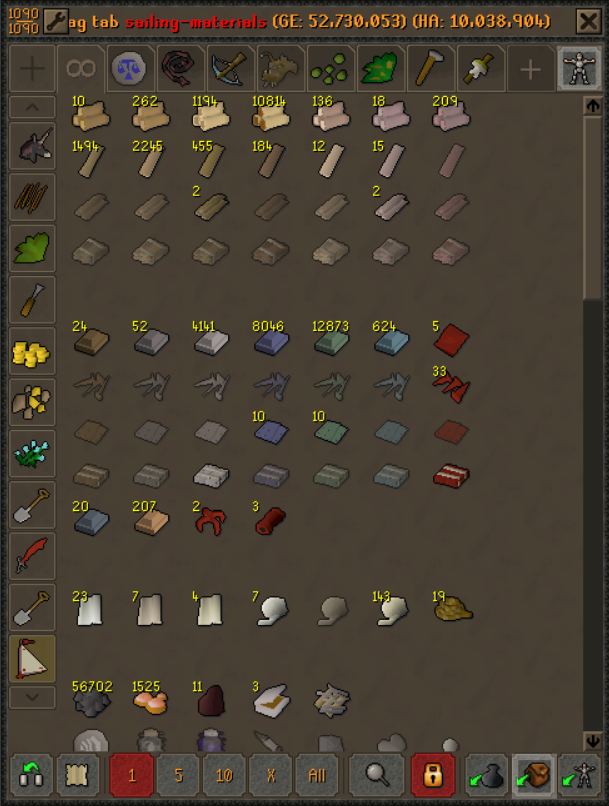
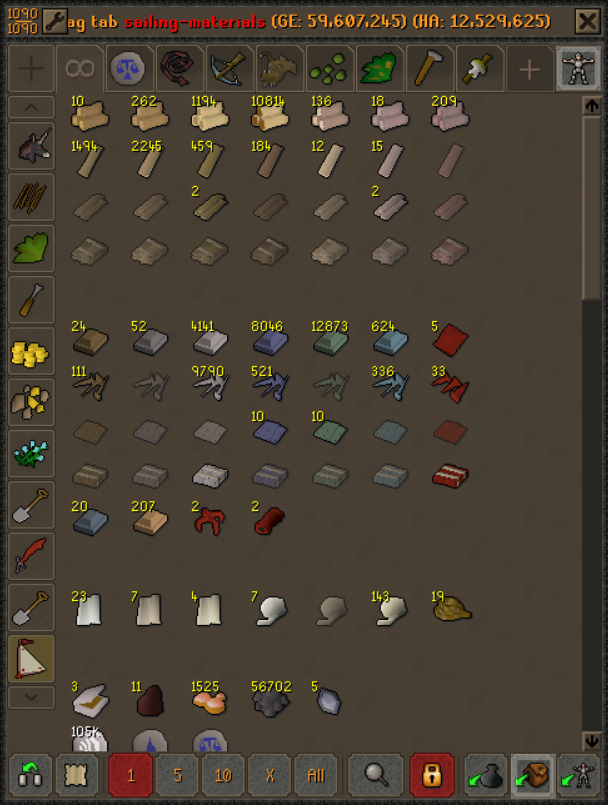
feat: add ballistic attractor and bosun's workbench facilities
- add both facilities to the upgrade catalog for skiffs and sloops
- add facility visibility configuration options
- detect installed ballistic attractors and bosun's workbenches
- add schematic unlock tracking for both facilities
- include facility requirements in lists, catalog, overlays, and bank views
- add facility image resources and Wiki integration

feat: add water and law rune material support

- register water and law runes for ownership tracking
- include the new runes in material aggregation and bank filtering
- expand the permanent Sailing materials tag to 89 materials
- reorganize specialty materials in the permanent bank layout
- update the documented supported-material count

fix: use the correct Magic stone item ID

- map Magic stone to item ID 8788
- correct ownership checks and bank filtering for the material
- align the registry with exported Sailing bank-tag layouts

- update README and screenshots

diff --git a/src/main/java/com/boatupgrades/MaterialItemRegistry.java b/src/main/java/com/boatupgrades/MaterialItemRegistry.java
@@ -36,6 +36,7 @@ final class MaterialItemRegistry
 		ids.put("Iron keel parts", ItemID.IRON_KEEL_PARTS); ids.put("Iron nails", ItemID.IRON_NAILS);
 		ids.put("Ironwood hull parts", ItemID.IRONWOOD_HULL_PARTS); ids.put("Ironwood logs", ItemID.IRONWOOD_LOGS);
 		ids.put("Ironwood plank", ItemID.IRONWOOD_PLANK); ids.put("Knife", ItemID.KNIFE);
+		ids.put("Law rune", ItemID.LAW_RUNE);
 		ids.put("Large adamant keel parts", ItemID.LARGE_ADAMANT_KEEL_PARTS); ids.put("Large bronze keel parts", ItemID.LARGE_BRONZE_KEEL_PARTS);
 		ids.put("Large camphor hull parts", ItemID.LARGE_CAMPHOR_HULL_PARTS); ids.put("Large dragon keel parts", ItemID.LARGE_DRAGON_KEEL_PARTS);
 		ids.put("Large iron keel parts", ItemID.LARGE_IRON_KEEL_PARTS); ids.put("Large ironwood hull parts", ItemID.LARGE_IRONWOOD_HULL_PARTS);
@@ -44,7 +45,7 @@ final class MaterialItemRegistry
 		ids.put("Large rune keel parts", ItemID.LARGE_RUNE_KEEL_PARTS); ids.put("Large steel keel parts", ItemID.LARGE_STEEL_KEEL_PARTS);
 		ids.put("Large teak hull parts", ItemID.LARGE_TEAK_HULL_PARTS); ids.put("Large wooden hull parts", ItemID.LARGE_WOODEN_HULL_PARTS);
 		ids.put("Lead bar", ItemID.LEAD_BAR); ids.put("Linen yarn", ItemID.LINEN_YARN); ids.put("Logs", ItemID.LOGS);
-		ids.put("Magic stone", ItemID.MAGIC_STONE); ids.put("Mahogany hull parts", ItemID.MAHOGANY_HULL_PARTS);
+		ids.put("Magic stone", ItemID.MAGIC_STONE_8788); ids.put("Mahogany hull parts", ItemID.MAHOGANY_HULL_PARTS);
 		ids.put("Mahogany logs", ItemID.MAHOGANY_LOGS); ids.put("Mahogany plank", ItemID.MAHOGANY_PLANK);
 		ids.put("Mithril bar", ItemID.MITHRIL_BAR); ids.put("Mithril keel parts", ItemID.MITHRIL_KEEL_PARTS);
 		ids.put("Mithril nails", ItemID.MITHRIL_NAILS); ids.put("Molten glass", ItemID.MOLTEN_GLASS);
@@ -60,6 +61,7 @@ final class MaterialItemRegistry
 		ids.put("Te salt", ItemID.TE_SALT); ids.put("Teak hull parts", ItemID.TEAK_HULL_PARTS);
 		ids.put("Teak logs", ItemID.TEAK_LOGS); ids.put("Teak plank", ItemID.TEAK_PLANK);
 		ids.put("Tinderbox", ItemID.TINDERBOX); ids.put("Urt salt", ItemID.URT_SALT);
+		ids.put("Water rune", ItemID.WATER_RUNE);
 		ids.put("Wooden hull parts", ItemID.WOODEN_HULL_PARTS);
 		ITEM_IDS = Collections.unmodifiableMap(ids);
 	}

diff --git a/src/main/java/com/boatupgrades/SailingMaterialsBankTagService.java b/src/main/java/com/boatupgrades/SailingMaterialsBankTagService.java
@@ -37,7 +37,7 @@ public class SailingMaterialsBankTagService
 	private static final String BASE_TAG = "sailing-materials";
 	private static final int TAB_ICON_ITEM_ID = ItemID.ROSEWOOD_MAST_AND_COTTON_SAILS;
 	private static final int ITEMS_PER_ROW = 8;
-	private static final int EXPECTED_MATERIAL_COUNT = 87;
+	private static final int EXPECTED_MATERIAL_COUNT = 89;
 
 	private static final String[][] LAYOUT_ROWS =
 	{
@@ -54,12 +54,13 @@ public class SailingMaterialsBankTagService
 		{},
 		{"Bolt of linen", "Bolt of canvas", "Bolt of cotton", "Linen yarn", "Hemp yarn", "Cotton yarn", "Rope"},
 		{},
-		{"Swamp tar", "Molten glass", "Charcoal", "Tinderbox", "Barrel stand"},
-		{"Air rune", "Captured wind mote", "Bottled storm", "Swift albatross feather", "Magic stone", "Heart of ithell", "Echo pearl"},
-		{"Fishing bait", "Knife", "Narwhal horn knife", "Ray barbs"},
+		{"Tinderbox", "Charcoal", "Molten glass", "Swamp tar", "Magic stone"},
+		{"Air rune", "Water rune", "Law rune"},
+		{"Bottled storm", "Echo pearl", "Swift albatross feather"},
+		{"Barrel stand", "Captured wind mote", "Heart of ithell"},
+		{"Knife", "Narwhal horn knife", "Fishing bait", "Ray barbs"},
 		{"Te salt", "Efh salt", "Urt salt", "Relicym's balm(4)"}
 	};
-
 	private final Client client;
 	private final ClientThread clientThread;
 	private final ConfigManager configManager;
@@ -178,6 +179,11 @@ public class SailingMaterialsBankTagService
 			for (int column = 0; column < LAYOUT_ROWS[row].length; column++)
 			{
 				String materialName = LAYOUT_ROWS[row][column];
+				if (materialName == null)
+				{
+					log.debug("[Sailing Tag] Preserved empty layout slot at row {}, column {}", row + 1, column + 1);
+					continue;
+				}
 				if (!layoutNames.add(materialName)) duplicateNames.add(materialName);
 				Integer itemId = MaterialItemRegistry.getItemId(materialName);
 				if (itemId == null) unmappedNames.add(materialName);

diff --git a/src/main/java/com/boatupgrades/FacilityService.java b/src/main/java/com/boatupgrades/FacilityService.java
@@ -53,7 +53,9 @@ public class FacilityService
                 "Inoculation Station",
                 "Salvaging Station",
                 "Crystal Extractor",
-                "Eternal Brazier"
+                "Eternal Brazier",
+                "Ballistic Attractor",
+                "Bosun's Workbench"
         );
         for (String f : facilities)
         {
@@ -161,6 +163,18 @@ public class FacilityService
 
             if (ETERNAL_BRAZIER.contains(id)) {
                 updateHighest("Eternal Brazier", 0);
+                return;
+            }
+
+            if (BALLISTIC_ATTRACTOR.contains(id)) {
+                updateHighest("Ballistic Attractor", 0);
+                log.debug("[Facilities] Detected installed Ballistic attractor object {}", id);
+                return;
+            }
+
+            if (BOSUNS_WORKBENCH.contains(id)) {
+                updateHighest("Bosun's Workbench", 0);
+                log.debug("[Facilities] Detected installed Bosun's workbench object {}", id);
             }
         }
         catch (Throwable t)
@@ -668,5 +682,17 @@ public class FacilityService
             ObjectID.SAILING_BOAT_SKIFF_ETERNAL_BRAZIER,
             ObjectID.SAILING_BOAT_SLOOP_ETERNAL_BRAZIER,
             ObjectID.SAILING_BOAT_ETERNAL_BRAZIER_UI
+    );
+    private static final Set<Integer> BALLISTIC_ATTRACTOR = Set.of(
+            ObjectID.SAILING_BALLISTIC_ATTRACTOR
+    );
+    private static final Set<Integer> BOSUNS_WORKBENCH = Set.of(
+            ObjectID.SAILING_BOSUNS_WORKBENCH_NORMAL,
+            ObjectID.SAILING_BOSUNS_WORKBENCH_OAK,
+            ObjectID.SAILING_BOSUNS_WORKBENCH_TEAK,
+            ObjectID.SAILING_BOSUNS_WORKBENCH_MAHOGANY,
+            ObjectID.SAILING_BOSUNS_WORKBENCH_CAMPHOR,
+            ObjectID.SAILING_BOSUNS_WORKBENCH_IRONWOOD,
+            ObjectID.SAILING_BOSUNS_WORKBENCH_ROSEWOOD
     );
 }

diff --git a/src/main/java/com/boatupgrades/UpgradeData.java b/src/main/java/com/boatupgrades/UpgradeData.java
@@ -1,7 +1,9 @@
 package com.boatupgrades;
 
 import java.util.*;
+import lombok.extern.slf4j.Slf4j;
 
+@Slf4j
 public final class UpgradeData
 {
     private UpgradeData() {}
@@ -59,7 +61,9 @@ public final class UpgradeData
             "Anchor",
             "Fathom Device",
             "Salvaging Station",
-            "Crystal Extractor"
+            "Crystal Extractor",
+            "Ballistic Attractor",
+            "Bosun's Workbench"
     );
 
     static
@@ -379,6 +383,11 @@ public final class UpgradeData
                 Arrays.asList(new Material("Ironwood plank",6), new Material("Cupronickel bar",5), new Material("Magic stone",2), new Material("Heart of ithell",1))));
         OPTIONS.add(new UpgradeOption("Eternal Brazier", -1, 0, 78, 72, "Eternal brazier",
                 Arrays.asList(new Material("Ironwood plank",4), new Material("Rune nails",16), new Material("Runite bar",6), new Material("Cupronickel bar",6), new Material("Te salt",250), new Material("Efh salt",250), new Material("Urt salt",250))));
+        OPTIONS.add(new UpgradeOption("Ballistic Attractor", -1, 0, 50, 44, "Ballistic attractor",
+                Arrays.asList(new Material("Mahogany plank",10), new Material("Water rune",5000), new Material("Law rune",1000), new Material("Lead bar",5), new Material("Steel bar",5))));
+        OPTIONS.add(new UpgradeOption("Bosun's Workbench", -1, 0, 63, 54, "Bosun's workbench",
+                Arrays.asList(new Material("Camphor plank",6), new Material("Adamantite nails",24), new Material("Lead bar",5))));
+        log.debug("[Catalog] Registered Ballistic attractor and Bosun's workbench facility upgrades");
     }
 
     public static List<UpgradeOption> getAllOptions()

diff --git a/src/main/java/com/boatupgrades/utils/SchematicUtils.java b/src/main/java/com/boatupgrades/utils/SchematicUtils.java
@@ -33,7 +33,9 @@ public class SchematicUtils
             new SchematicEntry("Eternal brazier schematic", "Eternal brazier", VarbitID.LOST_SCHEMATIC_ETERNAL_BRAZIER),
             new SchematicEntry("Dragon cannon schematic", "Dragon cannon", VarbitID.LOST_SCHEMATIC_DRAGON_CANNON),
             new SchematicEntry("Rosewood & cotton sails schematic", "Rosewood mast & cotton sails", VarbitID.LOST_SCHEMATIC_ROSEWOOD_SAIL),
-            new SchematicEntry("Dragon keel schematic", "Dragon keel", VarbitID.LOST_SCHEMATIC_DRAGON_KEEL)
+            new SchematicEntry("Dragon keel schematic", "Dragon keel", VarbitID.LOST_SCHEMATIC_DRAGON_KEEL),
+            new SchematicEntry("Ballistic attractor schematic", "Ballistic attractor", VarbitID.LOST_SCHEMATIC_BALLISTIC_ATTRACTOR),
+            new SchematicEntry("Bosun's workbench schematic", "Bosun's workbench", VarbitID.LOST_SCHEMATIC_BOSUNS_WORKBENCH)
     );
 
     public boolean hasSchematic(String upgradeName)

diff --git a/src/main/java/com/boatupgrades/BoatUpgradesConfig.java b/src/main/java/com/boatupgrades/BoatUpgradesConfig.java
@@ -324,6 +324,22 @@ public interface BoatUpgradesConfig extends Config
 	default boolean showEternalBrazier() { return false; }
 
 	@ConfigItem(
+			keyName = "showBallisticAttractor",
+			name = "Ballistic attractor",
+			description = "Show the Ballistic attractor facility in the overlay",
+			section = facilitiesSection
+	)
+	default boolean showBallisticAttractor() { return false; }
+
+	@ConfigItem(
+			keyName = "showBosunsWorkbench",
+			name = "Bosun's workbench",
+			description = "Show the Bosun's workbench facility in the overlay",
+			section = facilitiesSection
+	)
+	default boolean showBosunsWorkbench() { return false; }
+
+	@ConfigItem(
 			keyName = "comingSoon",
 			name = "Schematic checks under development",
 			description = "Schematic checks for text overlay under development",

diff --git a/src/main/java/com/boatupgrades/utils/UpgradeVisibilityUtils.java b/src/main/java/com/boatupgrades/utils/UpgradeVisibilityUtils.java
@@ -128,6 +128,8 @@ public class UpgradeVisibilityUtils
             case "Salvaging Station": return config.showSalvagingStation();
             case "Crystal Extractor": return config.showCrystalExtractor();
             case "Eternal Brazier": return config.showEternalBrazier();
+            case "Ballistic Attractor": return config.showBallisticAttractor();
+            case "Bosun's Workbench": return config.showBosunsWorkbench();
             default: return true;
         }
     }

diff --git a/src/main/java/com/boatupgrades/ChangelogService.java b/src/main/java/com/boatupgrades/ChangelogService.java
@@ -26,7 +26,7 @@ public class ChangelogService
         this.config = config;
     }
 
-    private static final String PLUGIN_VERSION = "1.4.0";
+    private static final String PLUGIN_VERSION = "1.5.0";
     private static final String CHANGELOG_RESOURCE = "/changelog.md";
     private boolean changelogShownThisSession = false;
     public void showChangelogIfNeeded()

diff --git a/src/main/java/com/boatupgrades/BankMaterialRequirementOverlay.java b/src/main/java/com/boatupgrades/BankMaterialRequirementOverlay.java
@@ -68,6 +68,6 @@ public class BankMaterialRequirementOverlay extends WidgetItemOverlay
 
 	private static String formatQuantity(int quantity)
 	{
-		return quantity >= 1_000 ? quantity / 1_000 + "k" : String.valueOf(quantity);
+		return quantity >= 1_000 ? quantity / 1_000 + "K" : String.valueOf(quantity);
 	}
 }

diff --git a/README.md b/README.md
@@ -74,7 +74,7 @@ The Total materials view begins with an alphabetical **All materials** aggregate
 
 ## Import a Sailing materials bank tag
 
-Boat Upgrades can also create a permanent, editable Bank Tags layout containing all 87 supported upgrade materials.
+Boat Upgrades can also create a permanent, editable Bank Tags layout containing all 89 supported upgrade materials.
 
 With the bank open, right-click the Bank Tags new-tab button and choose **Import tag tab Boat Upgrades**. The plugin creates a `sailing-materials` tab organized into eight-column sections for logs, planks, hull parts, metals, nails, keel parts, textiles, facility components, and other specialist materials. Intentional blank rows keep each group easy to scan.
 
